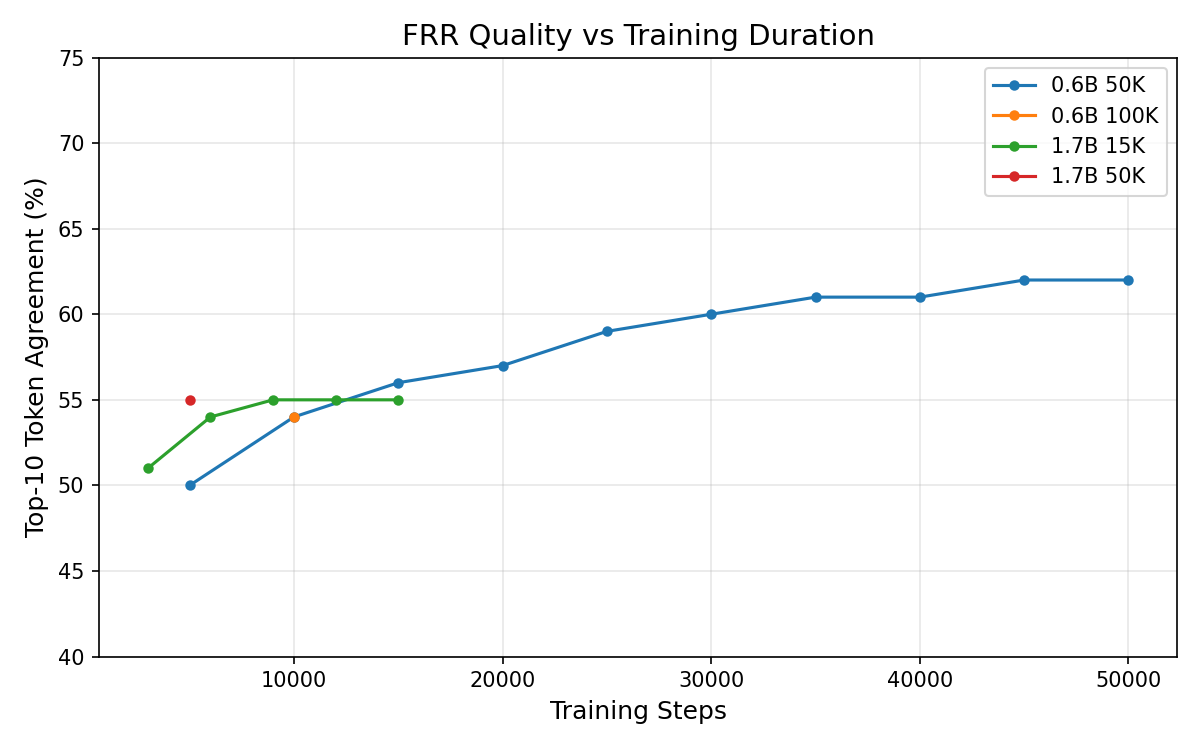
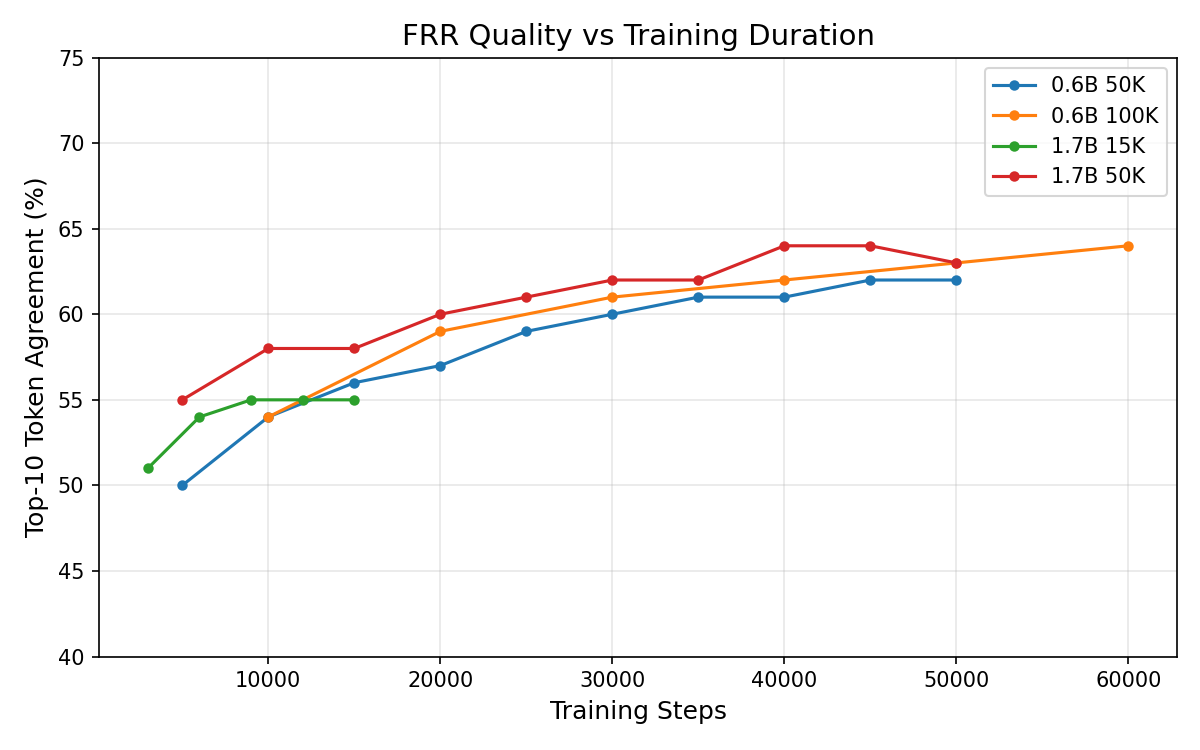
Updated plots + 1.7B model card ready for HuggingFace upload
Plots regenerated with latest data (100K + 1.7B curves).
Model card for mounnar/qwen3-1.7b-frr-48x ready (66% T10).

Both GPUs training: 0.6B 100K at 64% step 60K, 1.7B 100K starting.

diff --git a/MODEL_CARD.md b/MODEL_CARD.md
@@ -1,0 +1,64 @@
+---
+license: apache-2.0
+base_model: Qwen/Qwen3-1.7B
+tags:
+- ultracompress
+- frr
+- model-compression
+- fractal-residual-recursion
+pipeline_tag: text-generation
+---
+
+# mounnar/qwen3-1.7b-frr-48x
+
+**48x compressed** version of [Qwen/Qwen3-1.7B](https://huggingface.co/Qwen/Qwen3-1.7B) using Fractal Residual Recursion (FRR).
+
+## Model Details
+
+| Property | Value |
+|----------|-------|
+| Base model | Qwen/Qwen3-1.7B |
+| Compression | **48x** |
+| Parameters | 29,380,636 (vs 751,632,384 original) |
+| Top-10 agreement | 66% |
+| Top-1 agreement | 37% |
+| Training steps | 50,000 |
+| Method | Fractal Residual Recursion (FRR) |
+
+## How It Works
+
+FRR replaces all 28 transformer layers with a single shared block applied recursively 28 times. Per-scale affine modulation vectors (~8K parameters) enable layer-specific behavior. The shared block stays in GPU L2 cache, making inference potentially **faster** than the original model.
+
+## Usage
+
+```python
+from ultracompress.hf_model import FRRForCausalLM
+
+model = FRRForCausalLM.from_frr("frr_model.pt", "Qwen/Qwen3-1.7B")
+output = model.generate(input_ids, max_new_tokens=100)
+```
+
+## Compression Stack
+
+This model uses FRR only (architectural compression). For maximum compression, apply our quantization pipeline on top:
+
+| Stack | Quality | Compression |
+|-------|---------|-------------|
+| FRR only | 66% T10 | 48x |
+| FRR + Q4 | ~64% T10 | ~384x |
+| FRR + Q2 + entropy | ~63% T10 | ~768x |
+
+## Citation
+
+```bibtex
+@misc{ultracompress2026,
+  title={Fractal Residual Recursion: Extreme Transformer Compression via Shared Recursive Blocks},
+  author={Mounir},
+  year={2026},
+  url={https://github.com/mounnar/ultracompress}
+}
+```
+
+## License
+
+Apache 2.0 (same as base model).
